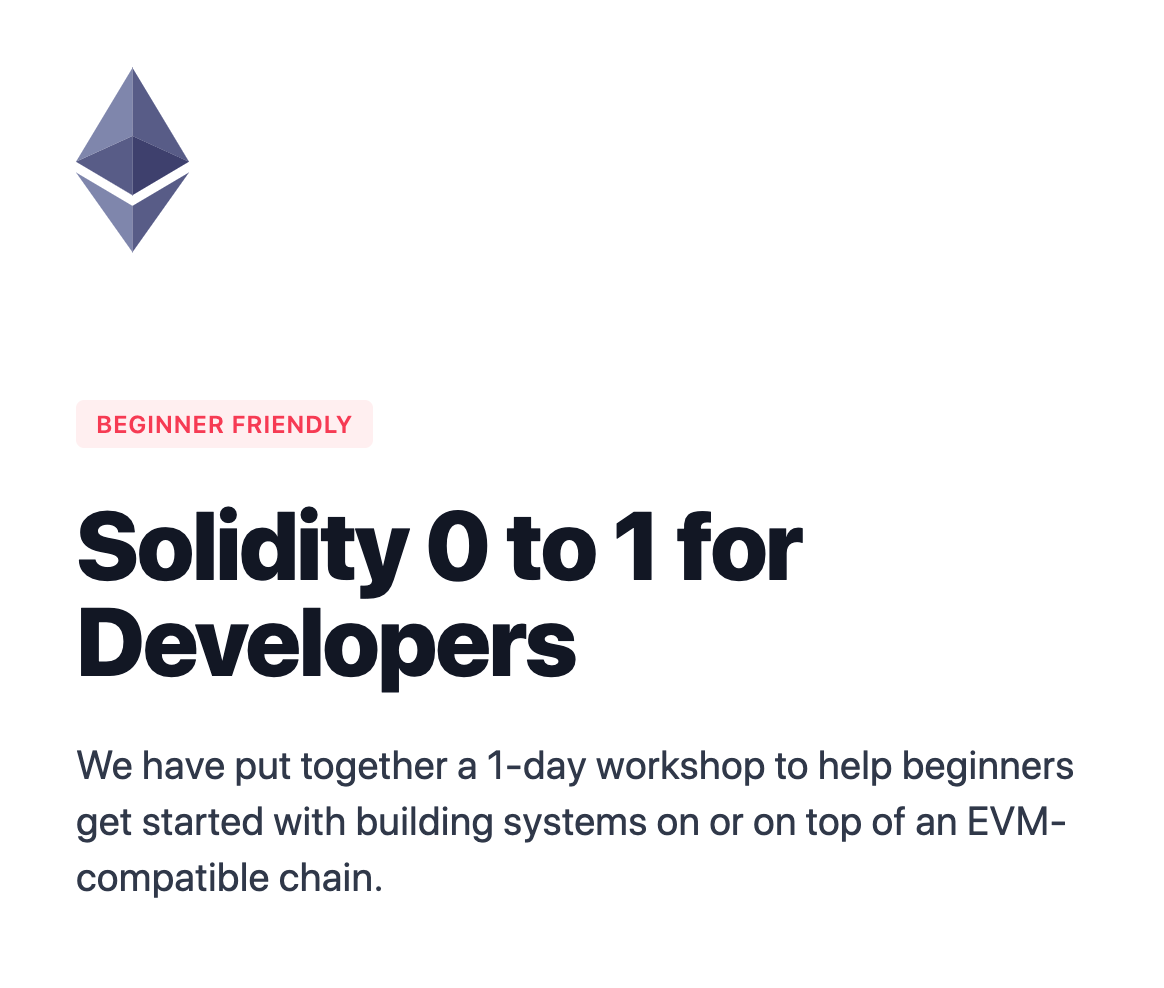
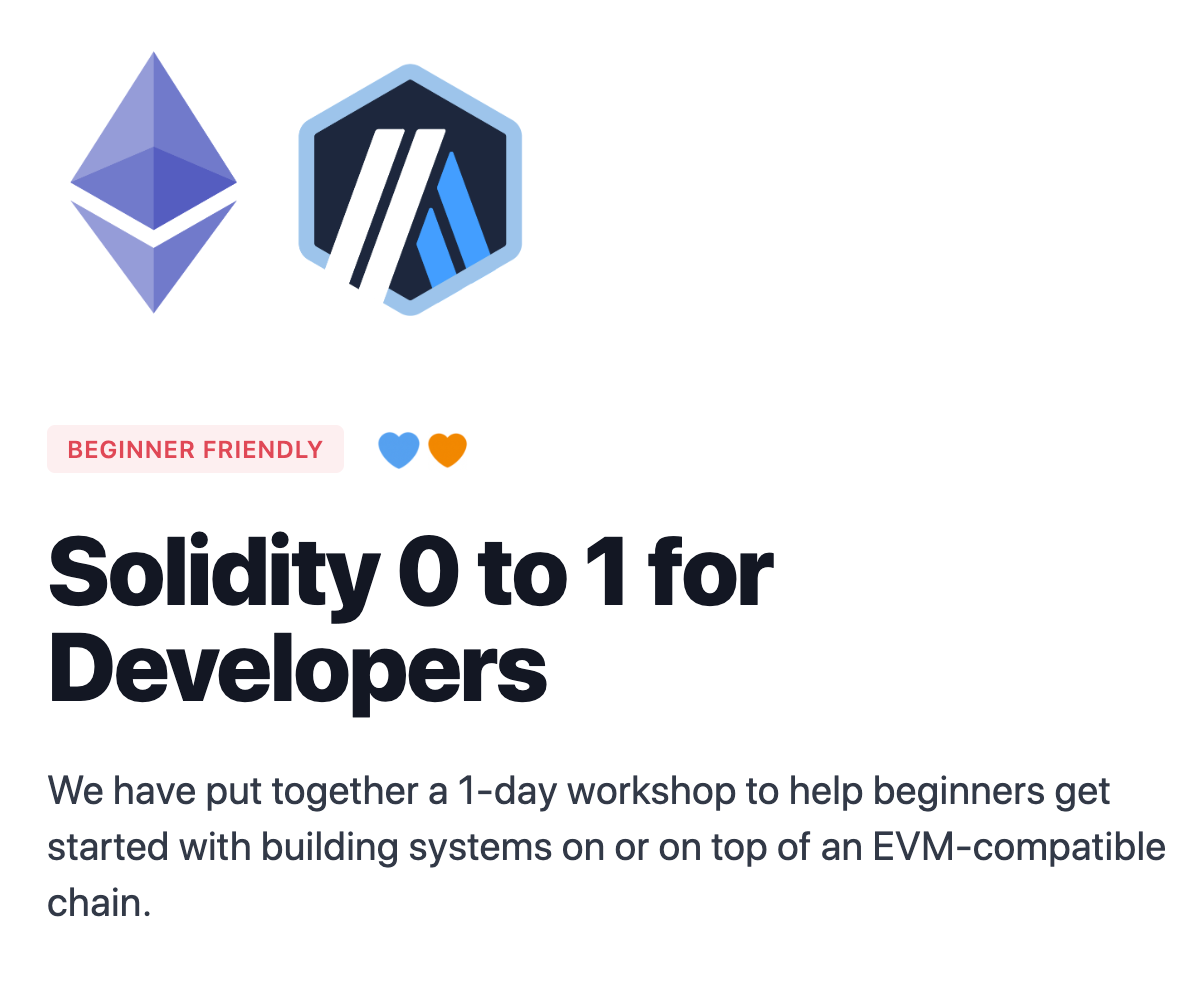
Update website

diff --git a/berlin22/index.html b/berlin22/index.html
@@ -130,16 +130,15 @@
         <div class="mx-auto max-w-md px-4 sm:max-w-3xl sm:px-6 lg:px-8 lg:max-w-7xl lg:grid lg:grid-cols-2 lg:gap-24">
           <div>
             <div>
-              <img class="h-36 w-auto" src="logos.png" alt="Workflow"> 
-
+              <img class="h-36 w-auto" src="VectorWiki-2k93v__ethereum-icon-purple.svg" alt="Workflow">
             </div>
             <div class="mt-12">
               <div>
-                <p class="inline-flex space-x-4">
+                <a href="#" class="inline-flex space-x-4">
                   <span
                     class="rounded bg-rose-50 px-2.5 py-1 text-xs font-semibold text-rose-500 tracking-wide uppercase">
-                    Beginner Friendly </span> <img class="h-6 w-auto" src="hearts.png" alt="Workflow"> 
-                </p>
+                    Beginner Friendly </span>
+                </a>
               </div>
               <div class="mt-6 sm:max-w-xl">
                 <h1 class="text-4xl font-extrabold text-gray-900 tracking-tight sm:text-5xl">Solidity 0 to 1 for
@@ -218,8 +217,8 @@
             </div>
             <div class="relative pl-4 -mr-40 sm:mx-auto sm:max-w-3xl sm:px-0 lg:max-w-none lg:h-full lg:pl-12">
               <img
-                class="w-full rounded-md shadow-xl ring-1 ring-black ring-opacity-5 lg:h-full lg:max-w-2xl lg:max-w-4xl"
-                src="group_berlin22.jpg" alt="Cohort from Berlin 22">
+                class="w-full rounded-md shadow-xl ring-1 ring-black ring-opacity-5 lg:h-full lg:max-w-2xl lg:max-w-none"
+                src="currywurst.jpeg" alt="A currywurst in Berlin">
             </div>
           </div>
         </div>
@@ -245,7 +244,7 @@
             <div class="relative mx-auto max-w-md px-4 sm:max-w-3xl sm:px-6 lg:px-0 lg:max-w-none lg:py-20">
               <!-- Testimonial card-->
               <div class="relative pt-64 pb-10 rounded-2xl shadow-xl overflow-hidden">
-                <img class="absolute inset-0 h-full w-full object-cover" src="louvre.jpg" alt="">
+                <img class="absolute inset-0 h-full w-full object-cover" src="berlin.jpeg" alt="">
                 <div class="absolute inset-0 bg-rose-300 mix-blend-multiply"></div>
                 <div class="absolute inset-0 bg-gradient-to-t from-rose-600 via-rose-600 opacity-30"></div>
                 <!-- <div class="relative px-8">
@@ -279,7 +278,10 @@
               <h2 class="text-3xl text-gray-900 font-extrabold tracking-tight sm:text-4xl">Location
               </h2>
               <div class="mt-6  space-y-6">
-                <p class="text-lg text-gray-700">Private, Paris</p>
+                <p class="text-lg text-gray-700">Full Node, Berlin</p>
+                <p class="text-xl leading-7 text-rose-700"><a href="https://twitter.com/ESILVparis"
+                    referrerpolicy="nofollow" target="_blank">@fullnode_berlin</a>
+              </div>
             </div>
 
             <!-- Stats section -->
@@ -287,9 +289,10 @@
               <dl class="grid grid-cols-2 gap-x-4 gap-y-8">
                 <div class="border-t-2 border-gray-100 pt-6">
                   <dt class="text-base font-medium text-gray-500">Date</dt>
-                  <dd class="text-3xl font-extrabold tracking-tight text-gray-900">Sunday 16th July <br><span
+                  <dd class="text-3xl font-extrabold tracking-tight text-gray-900">Sunday 11th September <br><span
                       class="text-gray-700 text-lg">(before
-                      <a href="https://www.ethccweek.fr/events/">EthCC)</a></dd>
+                      <a href="https://www.dappcon.io/">DappCon</a> and <a
+                        href="http://ethberlin.ooo/">ETHBerlin</a>)</span></dd>
                 </div>
 
                 <div class="border-t-2 border-gray-100 pt-6">
@@ -312,7 +315,7 @@
           <div class="lg:grid lg:grid-cols-2 lg:gap-24 lg:items-center">
             <div>
               <h2 class="text-3xl font-extrabold text-gray-900 tracking-tight sm:text-4xl">Workshop content</h2>
-              <p class="mt-6 max-w-3xl text-lg leading-7 text-gray-500">An extensive introduction to crypto</p>
+              <p class="mt-6 max-w-3xl text-lg leading-7 text-gray-500">Extensive amount of content</p>
             </div>
             <div role="list" class="mt-12 grid grid-cols-2 gap-0.5 md:grid-cols-3 lg:mt-0 lg:grid-cols-2">
               <div class="col-span-1 flex items-center py-8 px-8 bg-gray-50">
@@ -335,7 +338,7 @@
                   stroke-width="2" stroke="currentColor" aria-hidden="true">
                   <path stroke-linecap="round" stroke-linejoin="round" d="M5 13l4 4L19 7" />
                 </svg>
-                <span class="ml-3">Validating bridges</span>
+                <span class="ml-3">Transactions</span>
               </div>
               <div class="col-span-1 flex items-center py-8 px-8 bg-gray-50">
                 <svg class="h-6 w-6 text-rose-700" xmlns="http://www.w3.org/2000/svg" fill="none" viewBox="0 0 24 24"
@@ -371,9 +374,10 @@
                 <h2 class="mt-2 leading-8 text-3xl text-gray-900 font-extrabold tracking-tight sm:text-4xl">How to
                   Join</h2>
               </div>
-              <div class="relative z-10 text-base max-w-prose mx-auto lg:max-w-xl lg:mx-0 lg:pr-72">
+              <div class="relative z-10 text-base max-w-prose mx-auto lg:max-w-5xl lg:mx-0 lg:pr-72">
                 <p class="text-lg text-gray-700">Do you you satisfy the
-                  pre-requisite requirements?</p>
+                  pre-requisite
+                  requirements?</p>
               </div>
               <ul role="list">
                 <li>Some coding experience</li>
@@ -421,7 +425,7 @@
                     d="M-217.088 544.086L1544.761 72l134.327 501.316-1761.849 472.086z" />
                 </svg>
               </div>
-              <a href="https://forms.gle/2VdP7NEV2LjTV8NMA"
+              <a href="https://docs.google.com/forms/d/e/1FAIpQLScTjHGAoBbf0IY2-8MLO_019T_kfAQlzBOjej6UPVhFUk4NvA/viewform?usp=sf_link"
                 referrerpolicy="noreferrer" target="_blank" class="relative z-10">
                 Sign
                 up here
@@ -643,7 +647,7 @@
                     </div>
                     <div class="text-lg leading-6 font-medium space-y-1">
                       <h3>Patrick McCorry</h3>
-                      <p class="text-rose-600">Research at Arbitrum Foundation</p>
+                      <p class="text-rose-600">Researcher at Infura (Consensys)</p>
                     </div>
                     <div class="text-lg">
                       <p class="text-gray-500">Patrick has spent most of his adult life working on cryptocurrencies and
@@ -678,8 +682,32 @@
 
     <footer class="bg-gray-100 max-w-7xl mx-auto py-16 px-4 sm:px-6 lg:px-8 mt-32 bg-gray-900 sm:mt-24">
       <p class="text-center text-sm font-semibold uppercase text-gray-200 tracking-wide">
-        The workshop is hosted by the Arbitrum Foundation as a community educational event.
+        Thanks to <a href="https://infura.io/" class="underline">Infura</a>, the <a class="underline" href="https://twitter.com/vitalikbuterin/status/1203321837456961536">mithril master
+        node of Ethereum</a>, for sponsoring the workshop!
       </p>
+      <div class="mt-6 gap-8 ">
+        <div class="flex items-center justify-center">
+          <svg xmlns="http://www.w3.org/2000/svg" width="290" height="187" xml:space="preserve" viewBox="0 0 290 187">
+            <g fill="none" fill-rule="evenodd">
+              <polygon fill="#fff"
+                points="127.07 45 127.07 50.021 138.812 48.786 143.146 48.786 143.146 56.914 135.848 59.194 125.96 61.631 127.428 66.54 136.904 62.821 143.146 60.872 143.146 74.215 138.812 74.215 127.07 72.978 127.07 78 162.93 78 162.93 72.978 151.188 74.215 146.853 74.215 146.853 60.872 153.064 62.811 162.572 66.54 164.04 61.631 154.177 59.201 146.853 56.914 146.853 48.786 151.188 48.786 162.93 50.021 162.93 45">
+              </polygon>
+              <path fill="#fff"
+                d="M229.161302 127.738233L233.342172 115.802041 234.357046 115.802041 238.541996 127.738233 229.161302 127.738233zM236.404132 109L231.307326 109 219.69697 142 224.167513 142 227.667041 132.007398 240.039317 132.007398 243.542925 142 248.013468 142 236.404132 109zM190.816876 125.471037L190.816876 113.35078 200.40182 113.35078C203.079555 113.35078 207.569034 114.140682 207.569034 119.431973 207.569034 124.4231 203.672075 125.471037 200.40182 125.471037L190.816876 125.471037zM211.885522 119.431973C211.885522 114.239683 208.334545 109 200.40182 109L186.498316 109 186.498316 142 190.816876 142 190.816876 129.861839 199.124587 129.861839 206.416106 142 211.623446 142 204.020129 129.412121C206.068052 128.922382 211.885522 126.874956 211.885522 119.431973zM170.452365 129.214867C170.452365 129.564403 170.356862 137.780594 162.087542 137.780594 154.391241 137.780594 153.739329 131.221581 153.723758 129.214867L153.723758 109 149.393939 109 149.393939 129.214867C149.393939 135.112256 152.718899 142 162.087542 142 171.456185 142 174.781145 135.112256 174.781145 129.214867L174.781145 109 170.452365 109 170.452365 129.214867z">
+              </path>
+              <polygon fill="#fff"
+                points="116.195 109 116.195 142 120.516 142 120.516 126.377 139.226 126.377 139.226 122.037 120.516 122.037 120.516 113.393 141.582 113.393 141.582 109">
+              </polygon>
+              <polygon fill="#fff"
+                points="99.138 109 99.138 135.226 98.186 135.226 82.784 109 77.138 109 77.138 142 81.501 142 81.501 116.604 82.454 116.604 97.157 142 103.502 142 103.502 109">
+              </polygon>
+              <polygon fill="#fff"
+                points="41.987 109 41.987 113.074 51.551 113.074 51.551 137.927 41.987 137.927 41.987 142 65.421 142 65.421 137.927 55.857 137.927 55.857 113.074 65.421 113.074 65.421 109">
+              </polygon>
+            </g>
+          </svg>
+        </div>
+      </div>
     </footer>
   </div>
 

diff --git a/berlin22/README.md b/berlin22/README.md
@@ -1,0 +1,1 @@
+# cryptocurrencyworkshop.github.io
